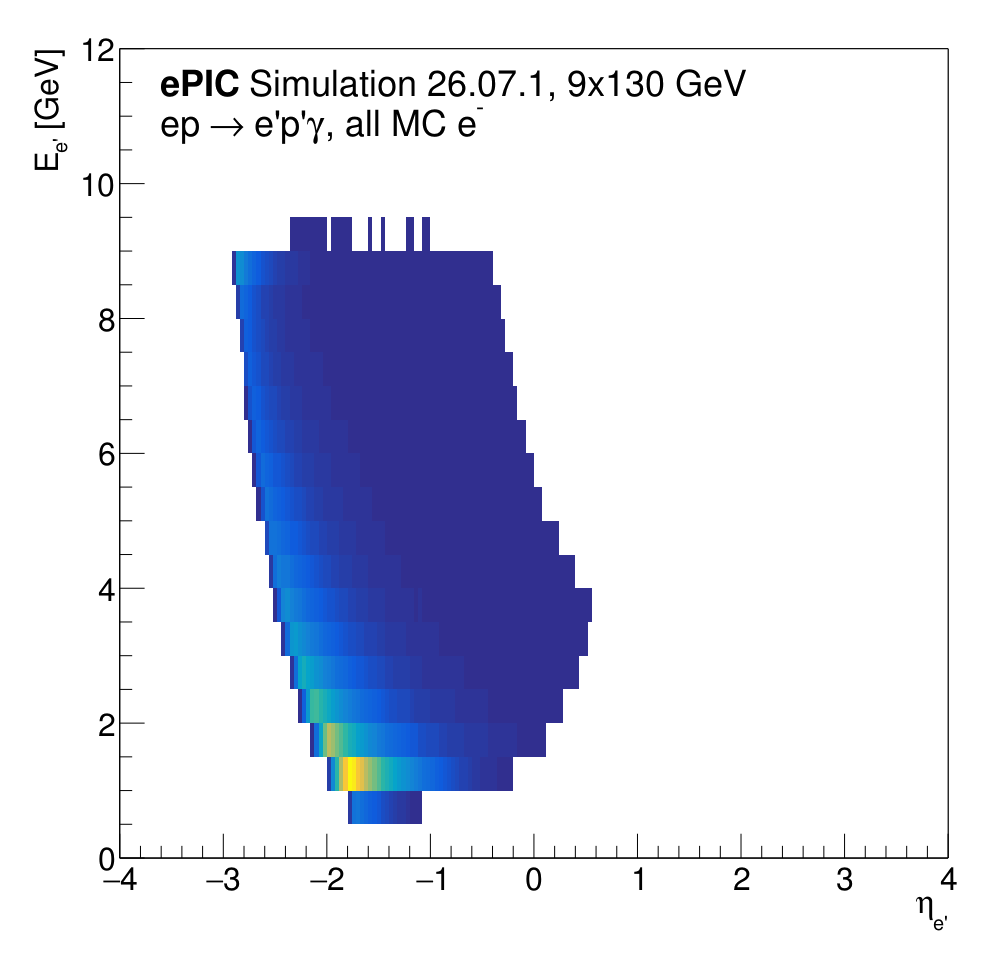
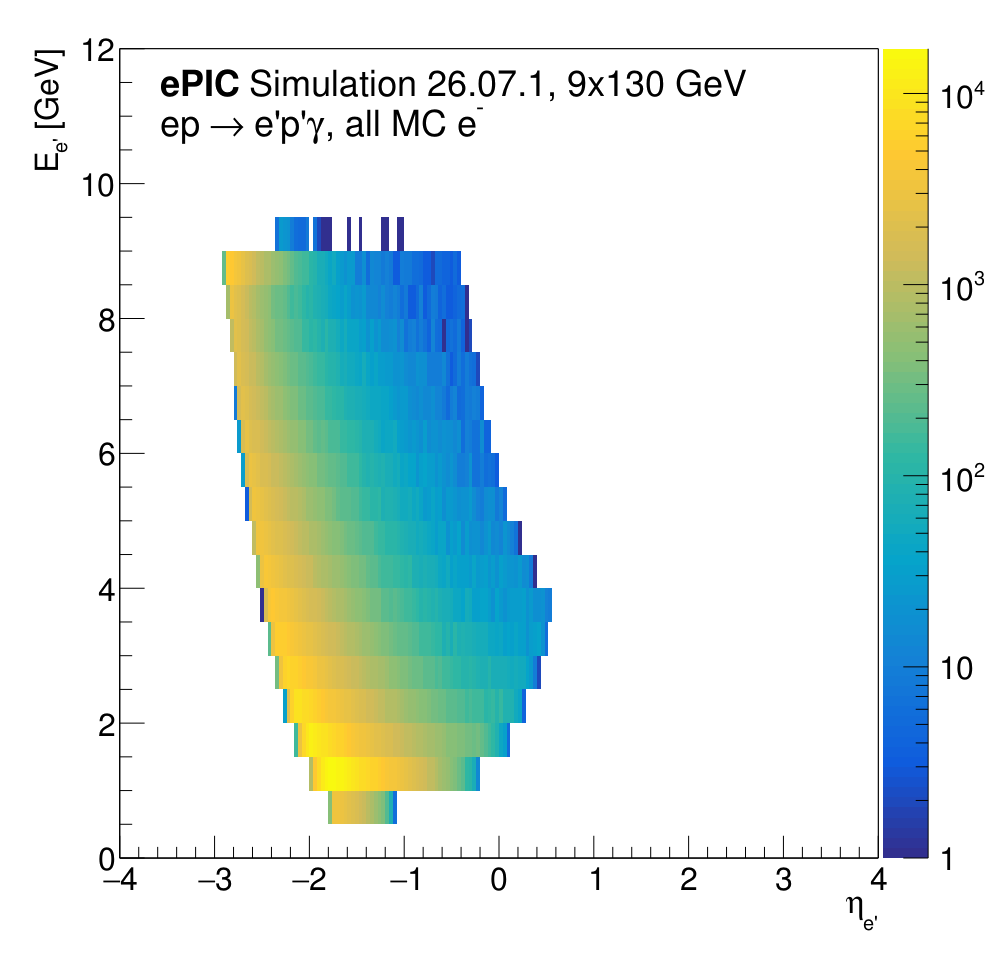
Single particle E/eta - adding palette

diff --git a/plotting/Plots_Single.C b/plotting/Plots_Single.C
@@ -11,7 +11,9 @@ using namespace std;
 // Choose to print plots
 bool kSAVE = true;
 // PATH TO MAIN REPO DIRECTORY
-TString sFigsPath = "/home/oliver/eic/Analysis/ePIC_TDR_DVCS/figs/";
+TString sMainDir = "/home/ojj2x/eic/ePIC_TDR_DVCS/";
+TString sFilePath = sMainDir + "rootfiles/";
+TString sFigsPath = sMainDir + "figs/";
 
 //---------------------------------------------------------------------
 // Helper functions for printing strings
@@ -155,7 +157,7 @@ void Plots_Single(TString campaign = "26.07.1", TString energy = "9x130", TStrin
   }
 
   // Load chosen input file
-  TString sIn = "../rootfiles/ePIC_DVCS_"+campaign+"_"+energy+"_"+hel+".root";
+  TString sIn = sFilePath + "ePIC_DVCS_"+campaign+"_"+energy+"_"+hel+".root";
   TFile* fIn = TFile::Open(sIn);
 
   //--------------------------------------------------------------------
@@ -316,8 +318,10 @@ void Plots_Single(TString campaign = "26.07.1", TString energy = "9x130", TStrin
   // CANVASES A., B., C.) 2D ENERGY/ETA (Single species)
   // Extra canvases - energy/eta
   TCanvas* cEvEta_e = new TCanvas("cEvEta_e","",1000,1000);
+  gPad->SetLogz();
+  gPad->SetRightMargin(0.12);
   h_EvEta_e->GetYaxis()->SetRangeUser(0, 1.3*fEBeam);
-  h_EvEta_e->Draw();
+  h_EvEta_e->Draw("colz");
   // Add text
   TLatex* tePICLabel_EvEtaelec = new TLatex(0.16, 0.88,
 					    Form("#splitline{#bf{ePIC} Simulation %s, %s GeV}{ep #rightarrow e'p'#gamma, all MC e^{-}}", campaign.Data(), energy.Data()));
@@ -329,7 +333,9 @@ void Plots_Single(TString campaign = "26.07.1", TString energy = "9x130", TStrin
   cEvEta_e->Close();
 
   TCanvas* cEvEta_g = new TCanvas("cEvEta_g","",1000,1000);
-  h_EvEta_g->Draw();
+  gPad->SetLogz();
+  gPad->SetRightMargin(0.12);
+  h_EvEta_g->Draw("colz");
   // Add text
   TLatex* tePICLabel_EvEtaphot = new TLatex(0.16, 0.88,
 					    Form("#splitline{#bf{ePIC} Simulation %s, %s GeV}{ep #rightarrow e'p'#gamma, all MC #gamma}", campaign.Data(), energy.Data()));
@@ -341,8 +347,10 @@ void Plots_Single(TString campaign = "26.07.1", TString energy = "9x130", TStrin
   cEvEta_g->Close();
 
   TCanvas* cEvEta_p = new TCanvas("cEvEta_p","",1000,1000);
+  gPad->SetLogz();
+  gPad->SetRightMargin(0.12);
   h_EvEta_p->GetYaxis()->SetRangeUser(0.5*fPBeam, 1.1*fPBeam);
-  h_EvEta_p->Draw();
+  h_EvEta_p->Draw("colz");
   // Add text
   TLatex* tePICLabel_EvEtaprot = new TLatex(0.16, 0.88, 
 					    Form("#splitline{#bf{ePIC} Simulation %s, %s GeV}{ep #rightarrow e'p'#gamma, all MC p'}", campaign.Data(), energy.Data()));
